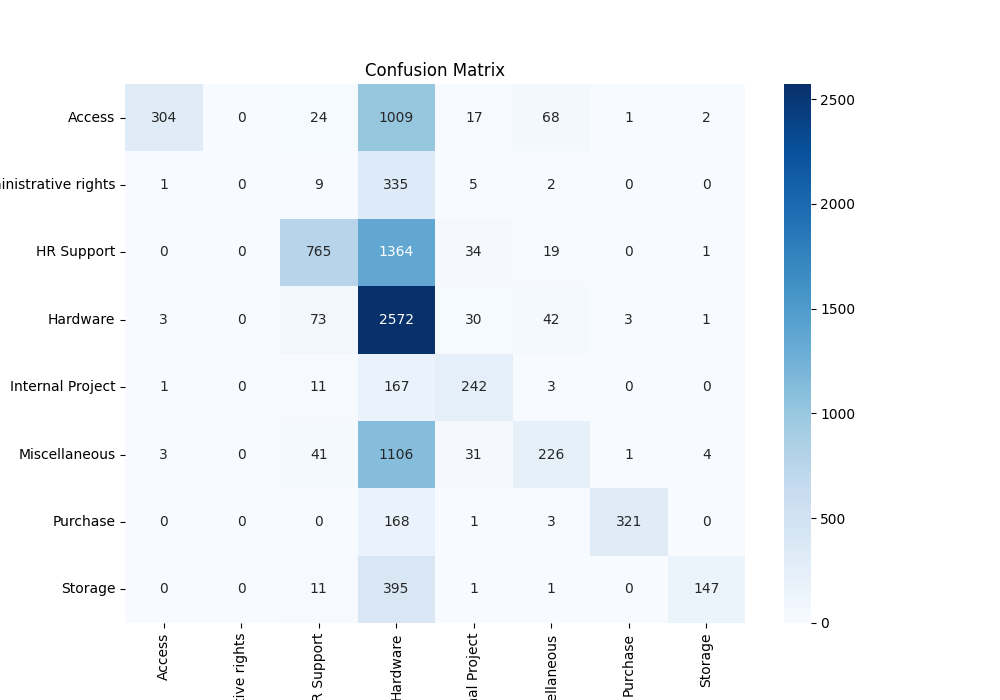
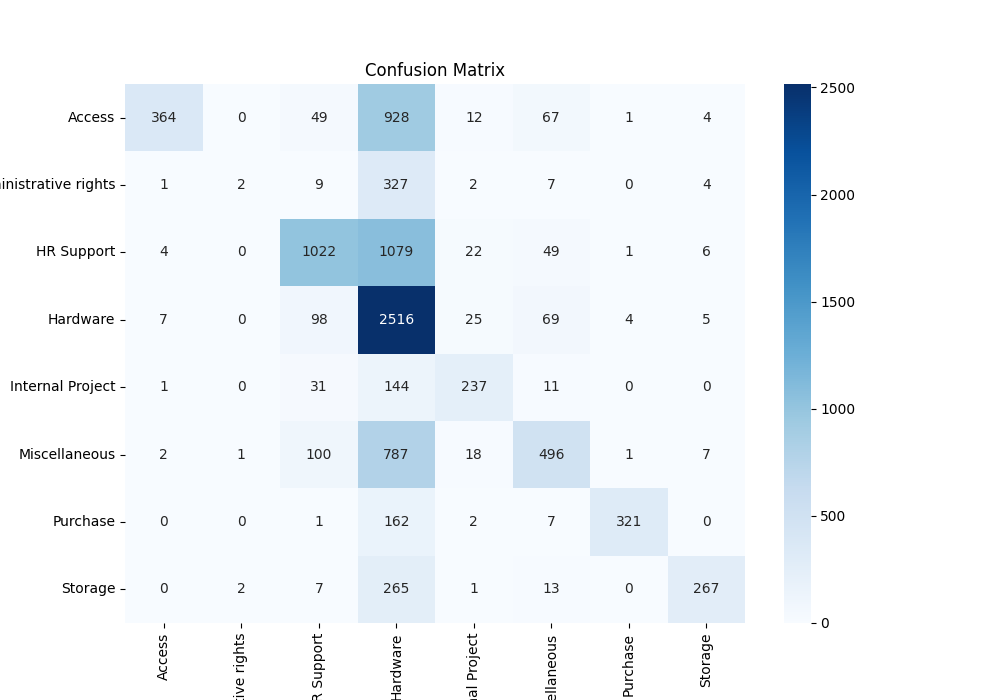
feat: aws mlflow tracking server scalability

diff --git a/src/main-dt.py b/src/main-dt.py
@@ -15,7 +15,10 @@ dagshub.init(repo_owner='Pratt33', repo_name='smart-ticket-routing-mlflow', mlfl
 
 # Set MLflow tracking URI to local mlruns directory
 # tracking server allows to store artifacts, parameters, and metrics
-mlflow.set_tracking_uri("https://dagshub.com/Pratt33/smart-ticket-routing-mlflow.mlflow")
+#mlflow.set_tracking_uri("file:./mlruns")#local storage for MLflow
+#mlflow.set_tracking_uri("http://localhost:5000")# local server for MLflow
+#mlflow.set_tracking_uri("https://dagshub.com/Pratt33/smart-ticket-routing-mlflow.mlflow")# dagshub server for MLflow
+mlflow.set_tracking_uri("http://ec2-3-108-54-126.ap-south-1.compute.amazonaws.com:5000/")# remote server for MLflow with aws
 
 # Load the ticket dataset
 df = pd.read_csv('data/raw/all_tickets_processed_improved_v3.csv')
@@ -36,7 +39,7 @@ X_train, X_test, y_train, y_test = train_test_split(
     random_state=42, 
     stratify=y_encoded
 )
-max_features = 5000  # Limit vocabulary size to reduce noise
+max_features =8000  # Limit vocabulary size to reduce noise
 max_iter = 1000  # Maximum iterations for convergence in Logistic Regression
 C = 1.0  # Regularization parameter to prevent overfitting
 
@@ -54,7 +57,7 @@ pipeline = Pipeline([
     )),
     # Decision Tree classifier
     ('classifier', DecisionTreeClassifier(
-        max_depth=7,          # Limit depth to prevent overfitting
+        max_depth=10,          # Limit depth to prevent overfitting
         min_samples_split=10  # Minimum samples to split an internal node
     ))
 ])
